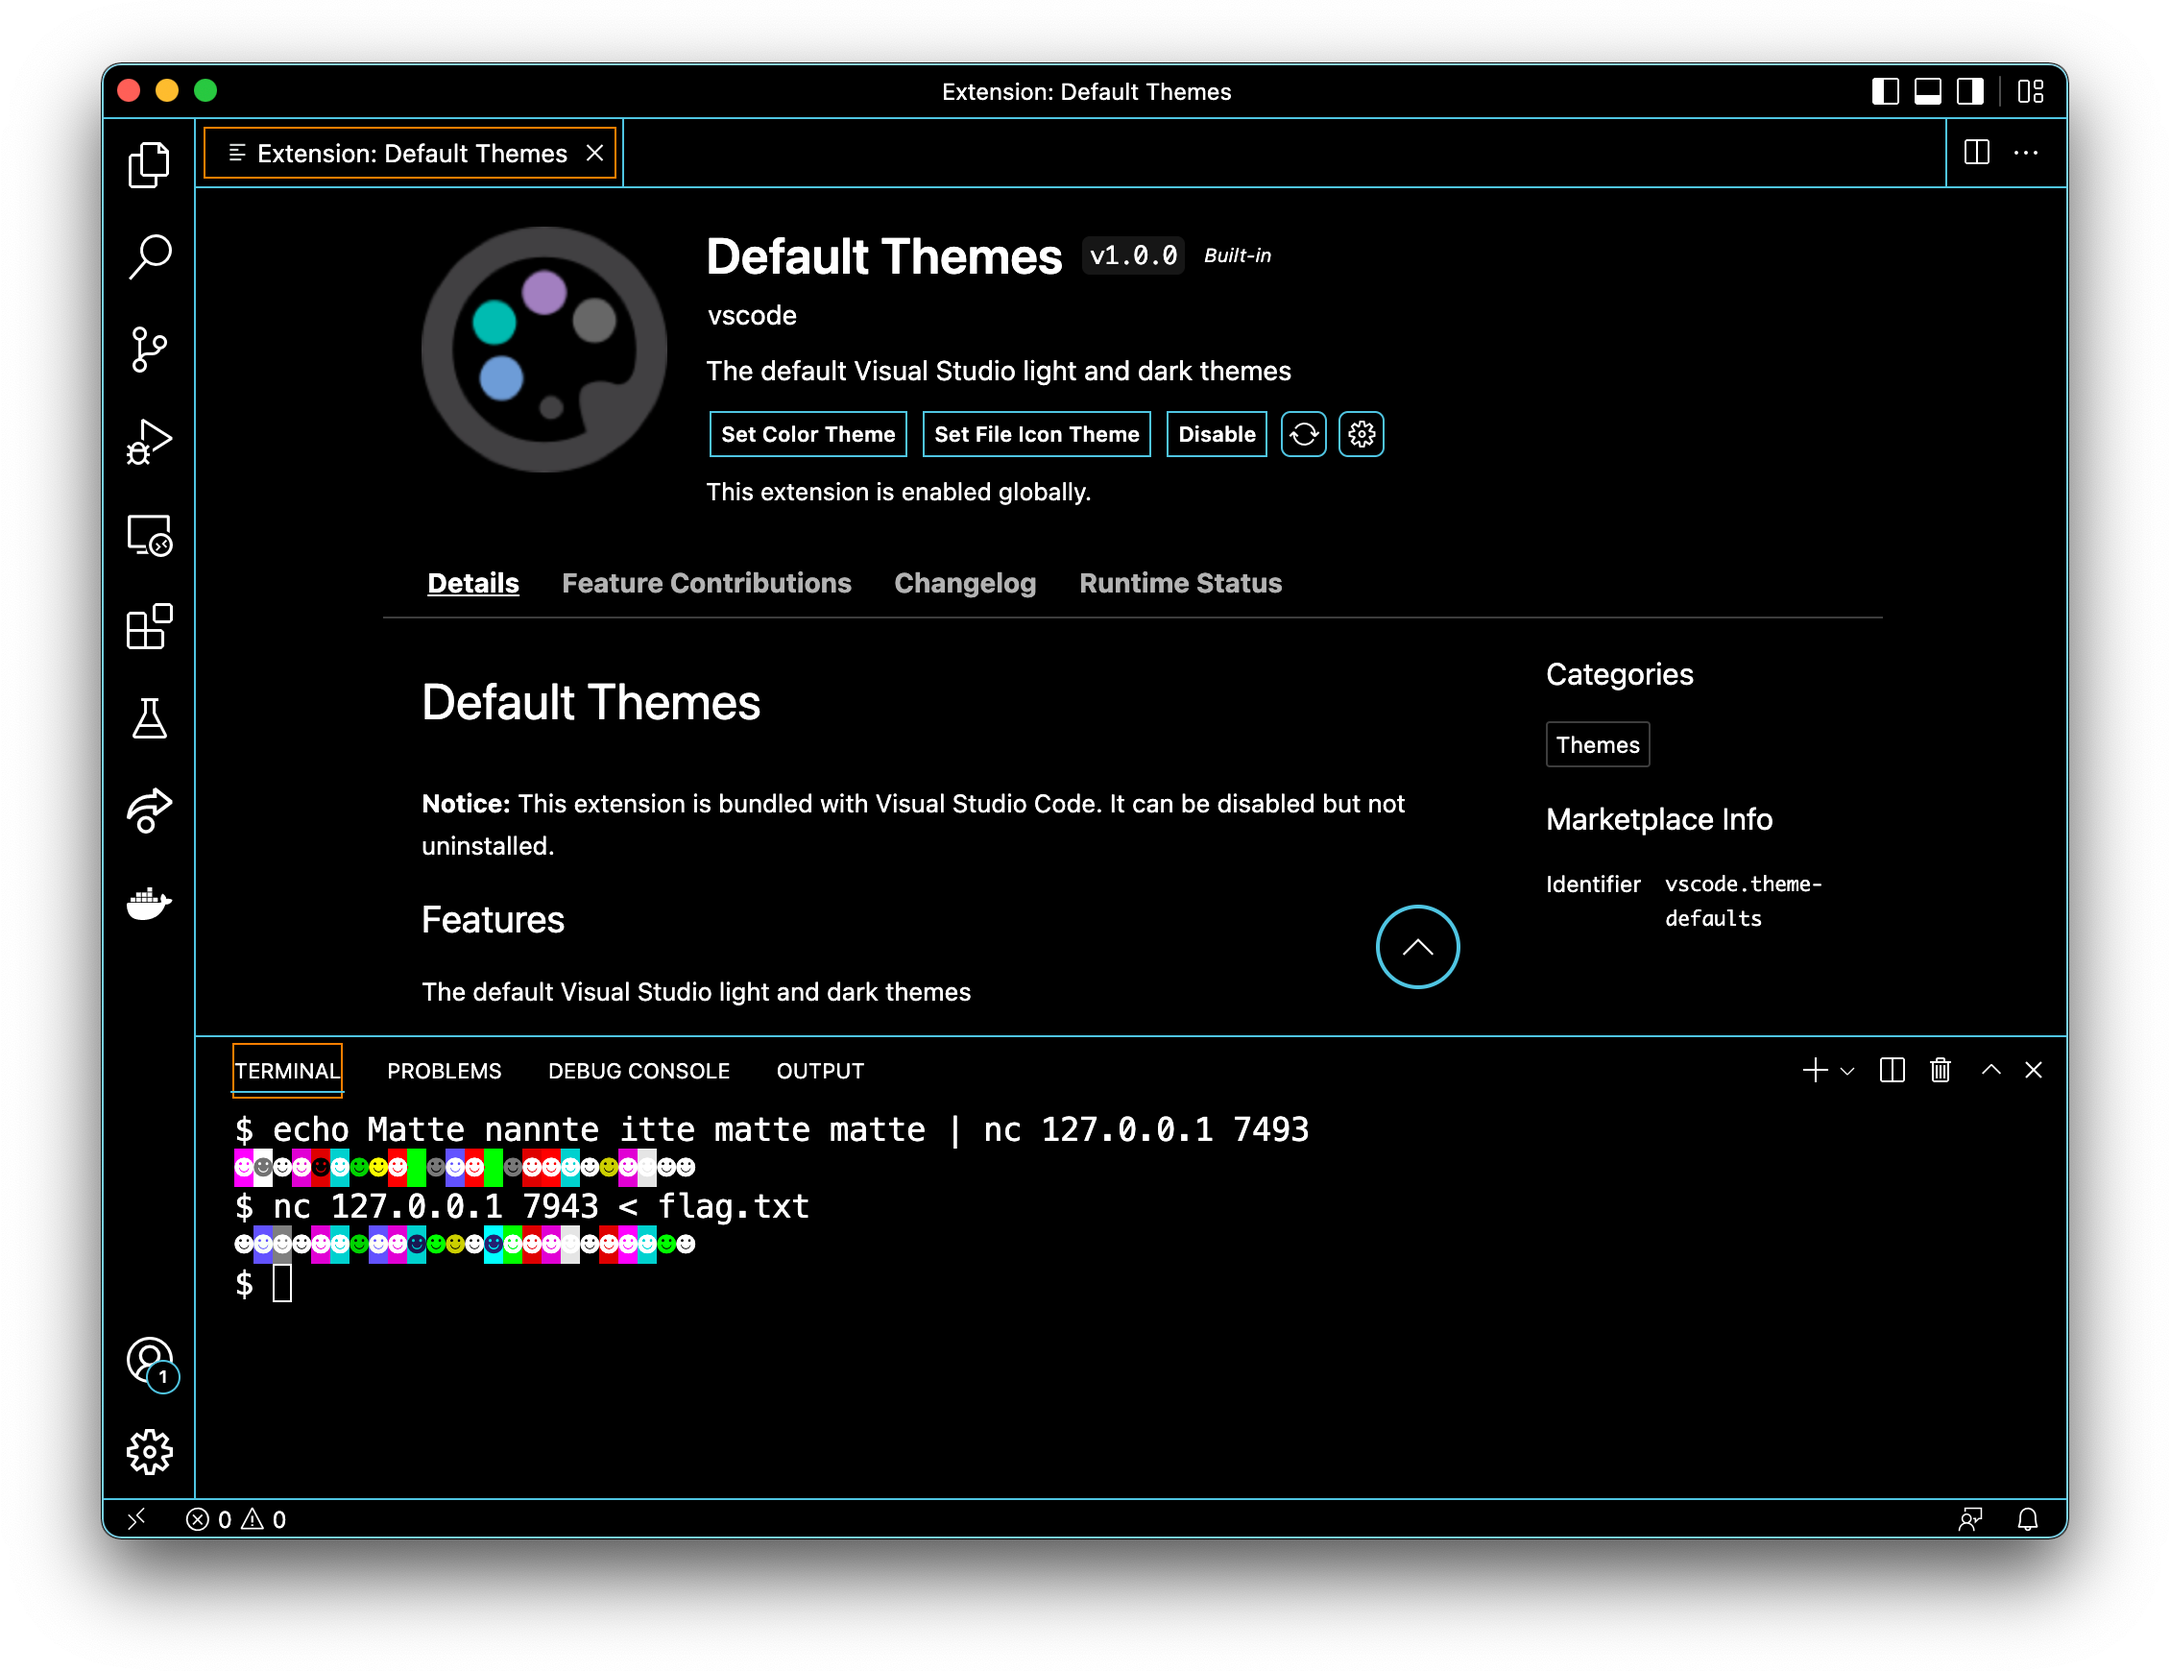
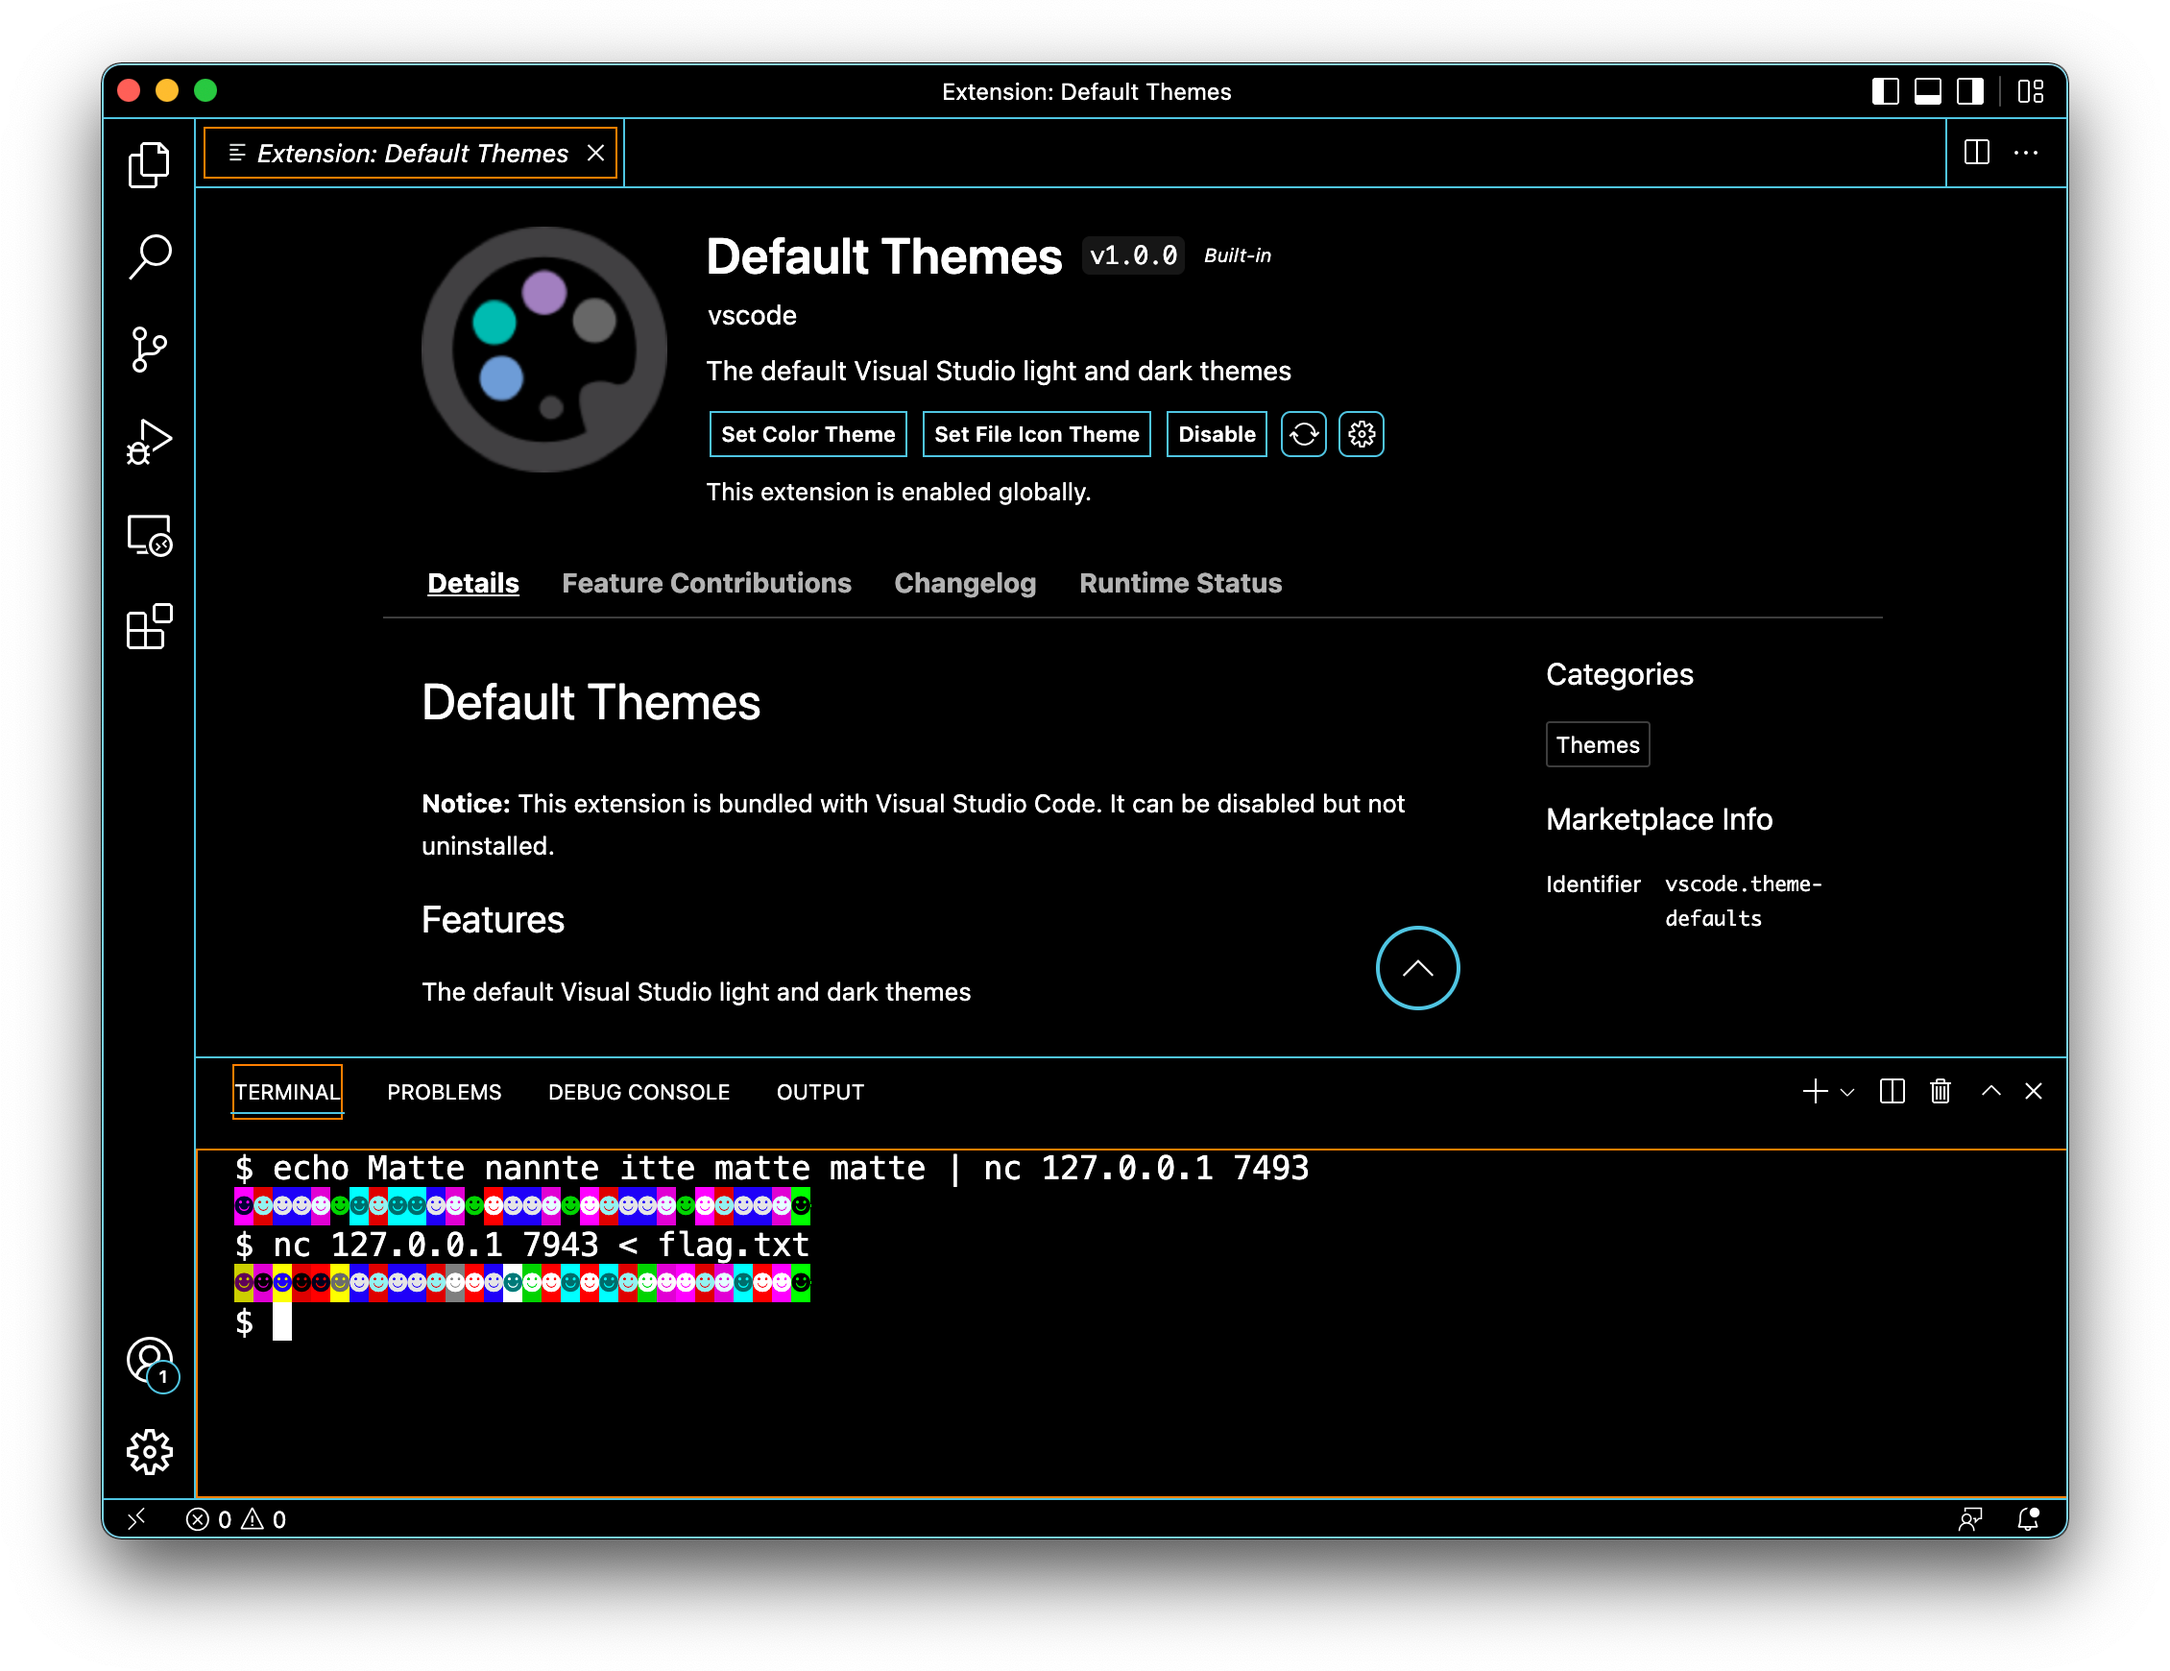
fix logic issue

diff --git a/encoding-matroshka/matroshka.py b/encoding-matroshka/matroshka.py
@@ -12,12 +12,12 @@ text = sys.stdin.read()
 #     print()
 
 bits = "".join(bin(ord(i))[2:].zfill(8) for i in text)
-bits = bits.ljust(len(bits) + (10 - (len(bits) % 10)) % 10, "0")
+# bits = bits.ljust(len(bits) + (10 - (len(bits) % 10)) % 10, "0")
 
 result = ""
-for i in range(0, len(bits), 10):
-    left = bits[i:i+5]
-    right = bits[i+5:i+10]
+for i in range(0, len(bits), 8):
+    left = bits[i:i+4]
+    right = bits[i+4:i+8]
     # print(left, right)
     lcolor = 30 if left[0] == "0" else 90
     lcolor += int(left[1:], 2)

diff --git a/encoding-matroshka/README.md b/encoding-matroshka/README.md
@@ -4,6 +4,28 @@ Category: Encoding
 
 One extra bit will double the 8 colors you already have, but ain’t these new colors too similar to the old ones?
 
-Hint 1: 10-bit encoding
+Hint: `\033[0m`
 
-Hint 2: `\033[0m`
+## Explanation
+
+```
+Matte nannte itte matte matte
+↓ (ASCII)
+01001101 01100001 01110100 01110100 01100101 00100000 01101110 01100001 01101110 01101110 01110100 01100101 00100000 01101001 01110100 01110100 01100101 00100000 01101101 01100001 01110100 01110100 01100101 00100000 01101101 01100001 01110100 01110100 01100101 00001010
+
+
+FG     BG
+____   ____
+0100   1101
+^~~~~  ^~~~~
+|Color |Color
+Dark   Bright
+34     105
+Blue   Bright Magenta
+```
+
+`SEKAI{tattahitorininarumaeni}`
+
+> 待ってなんて言って待って待って  
+> たった一人になる前に  
+> — マトリョシカ / ハチ
